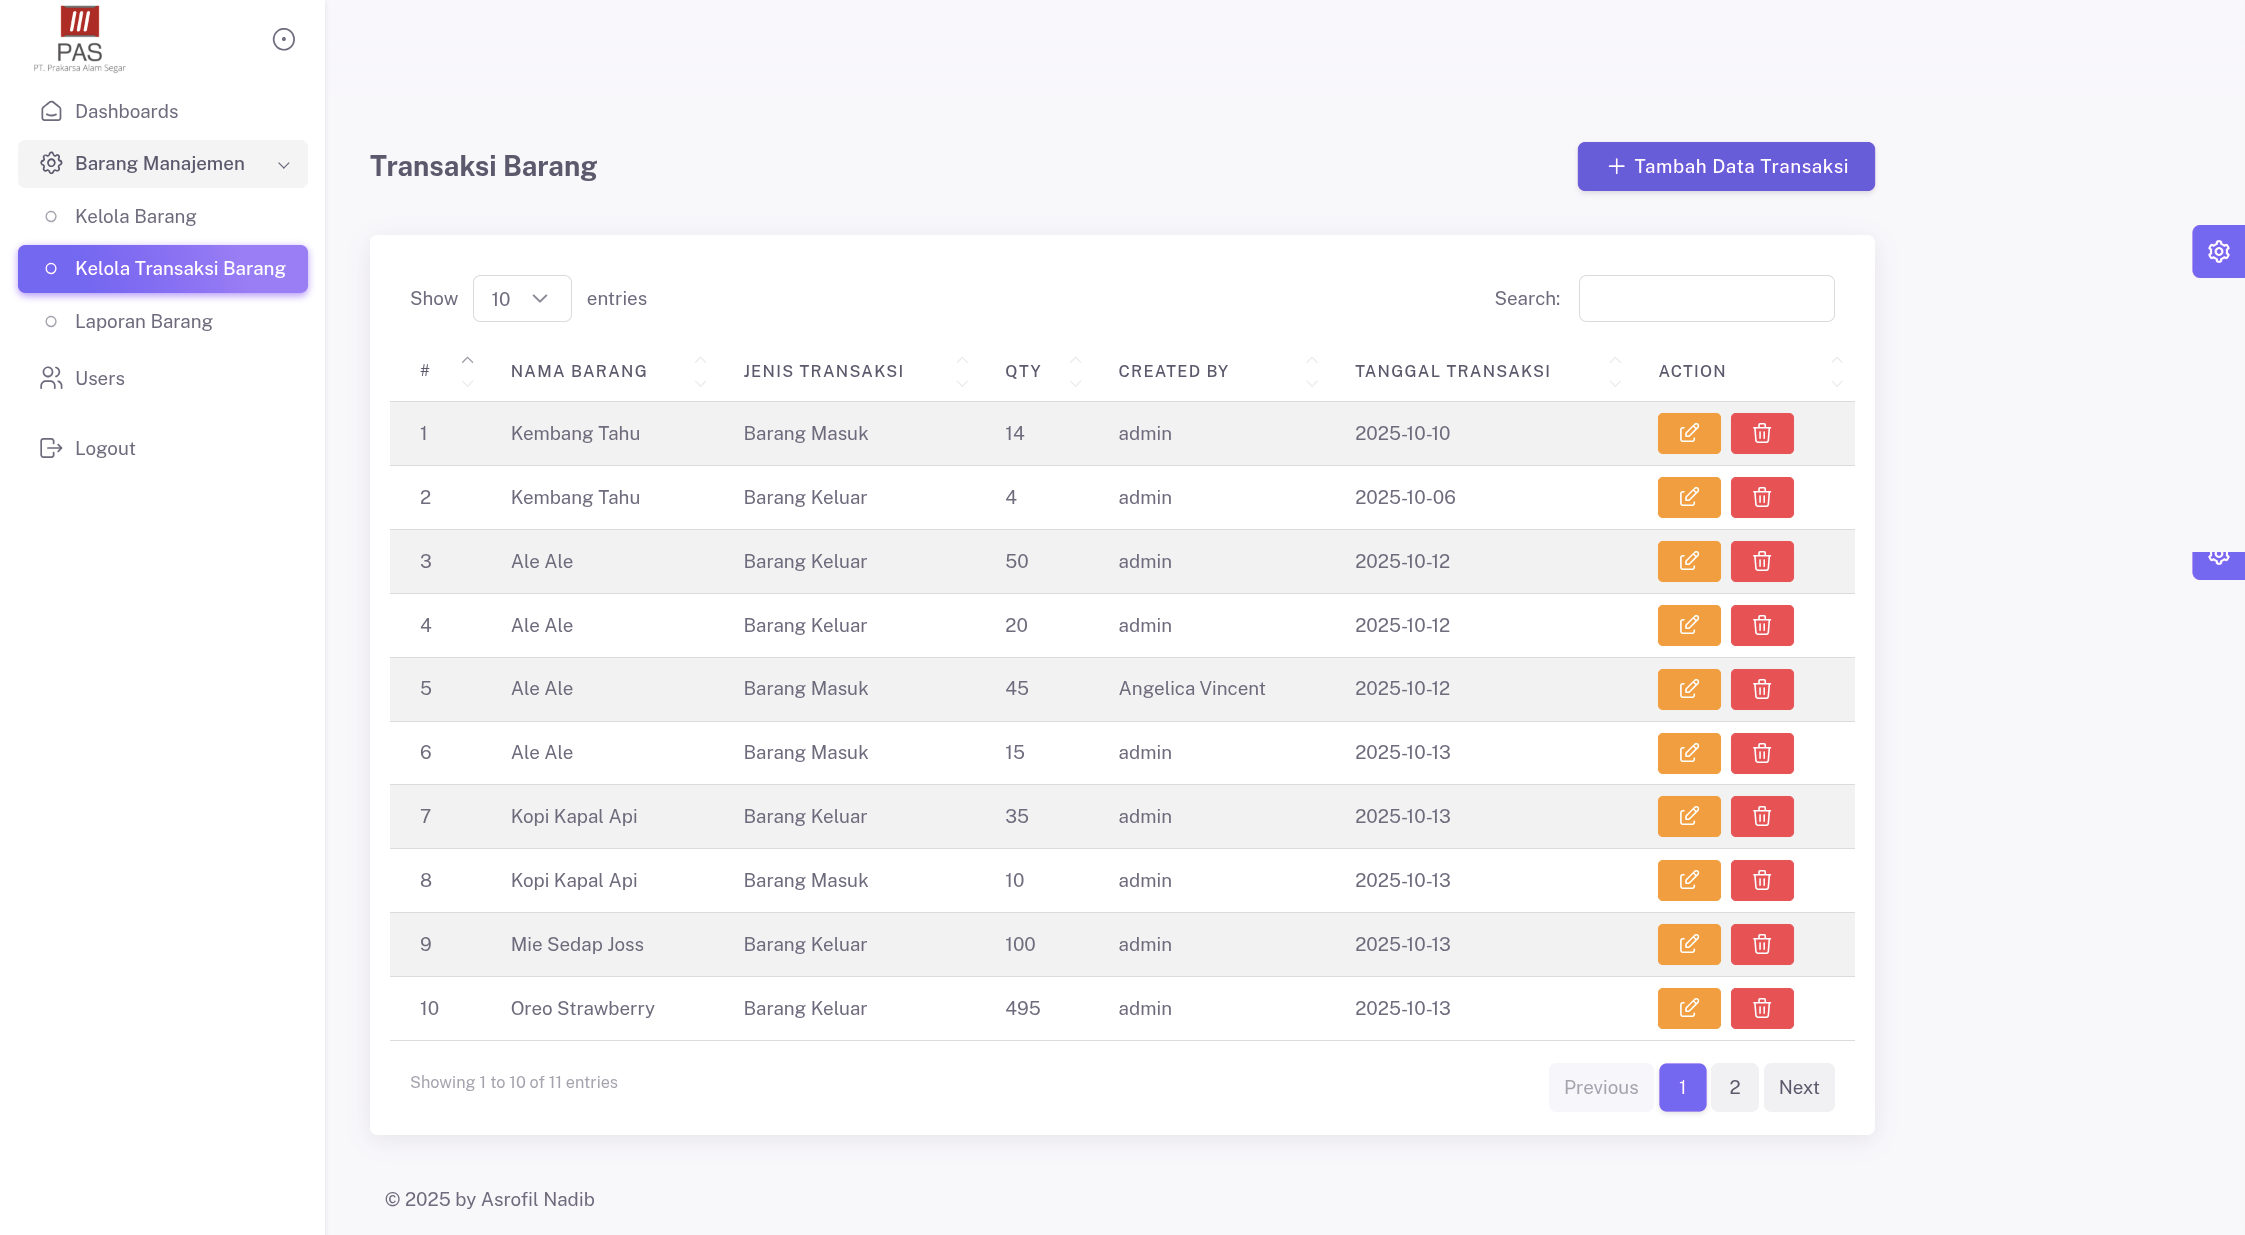
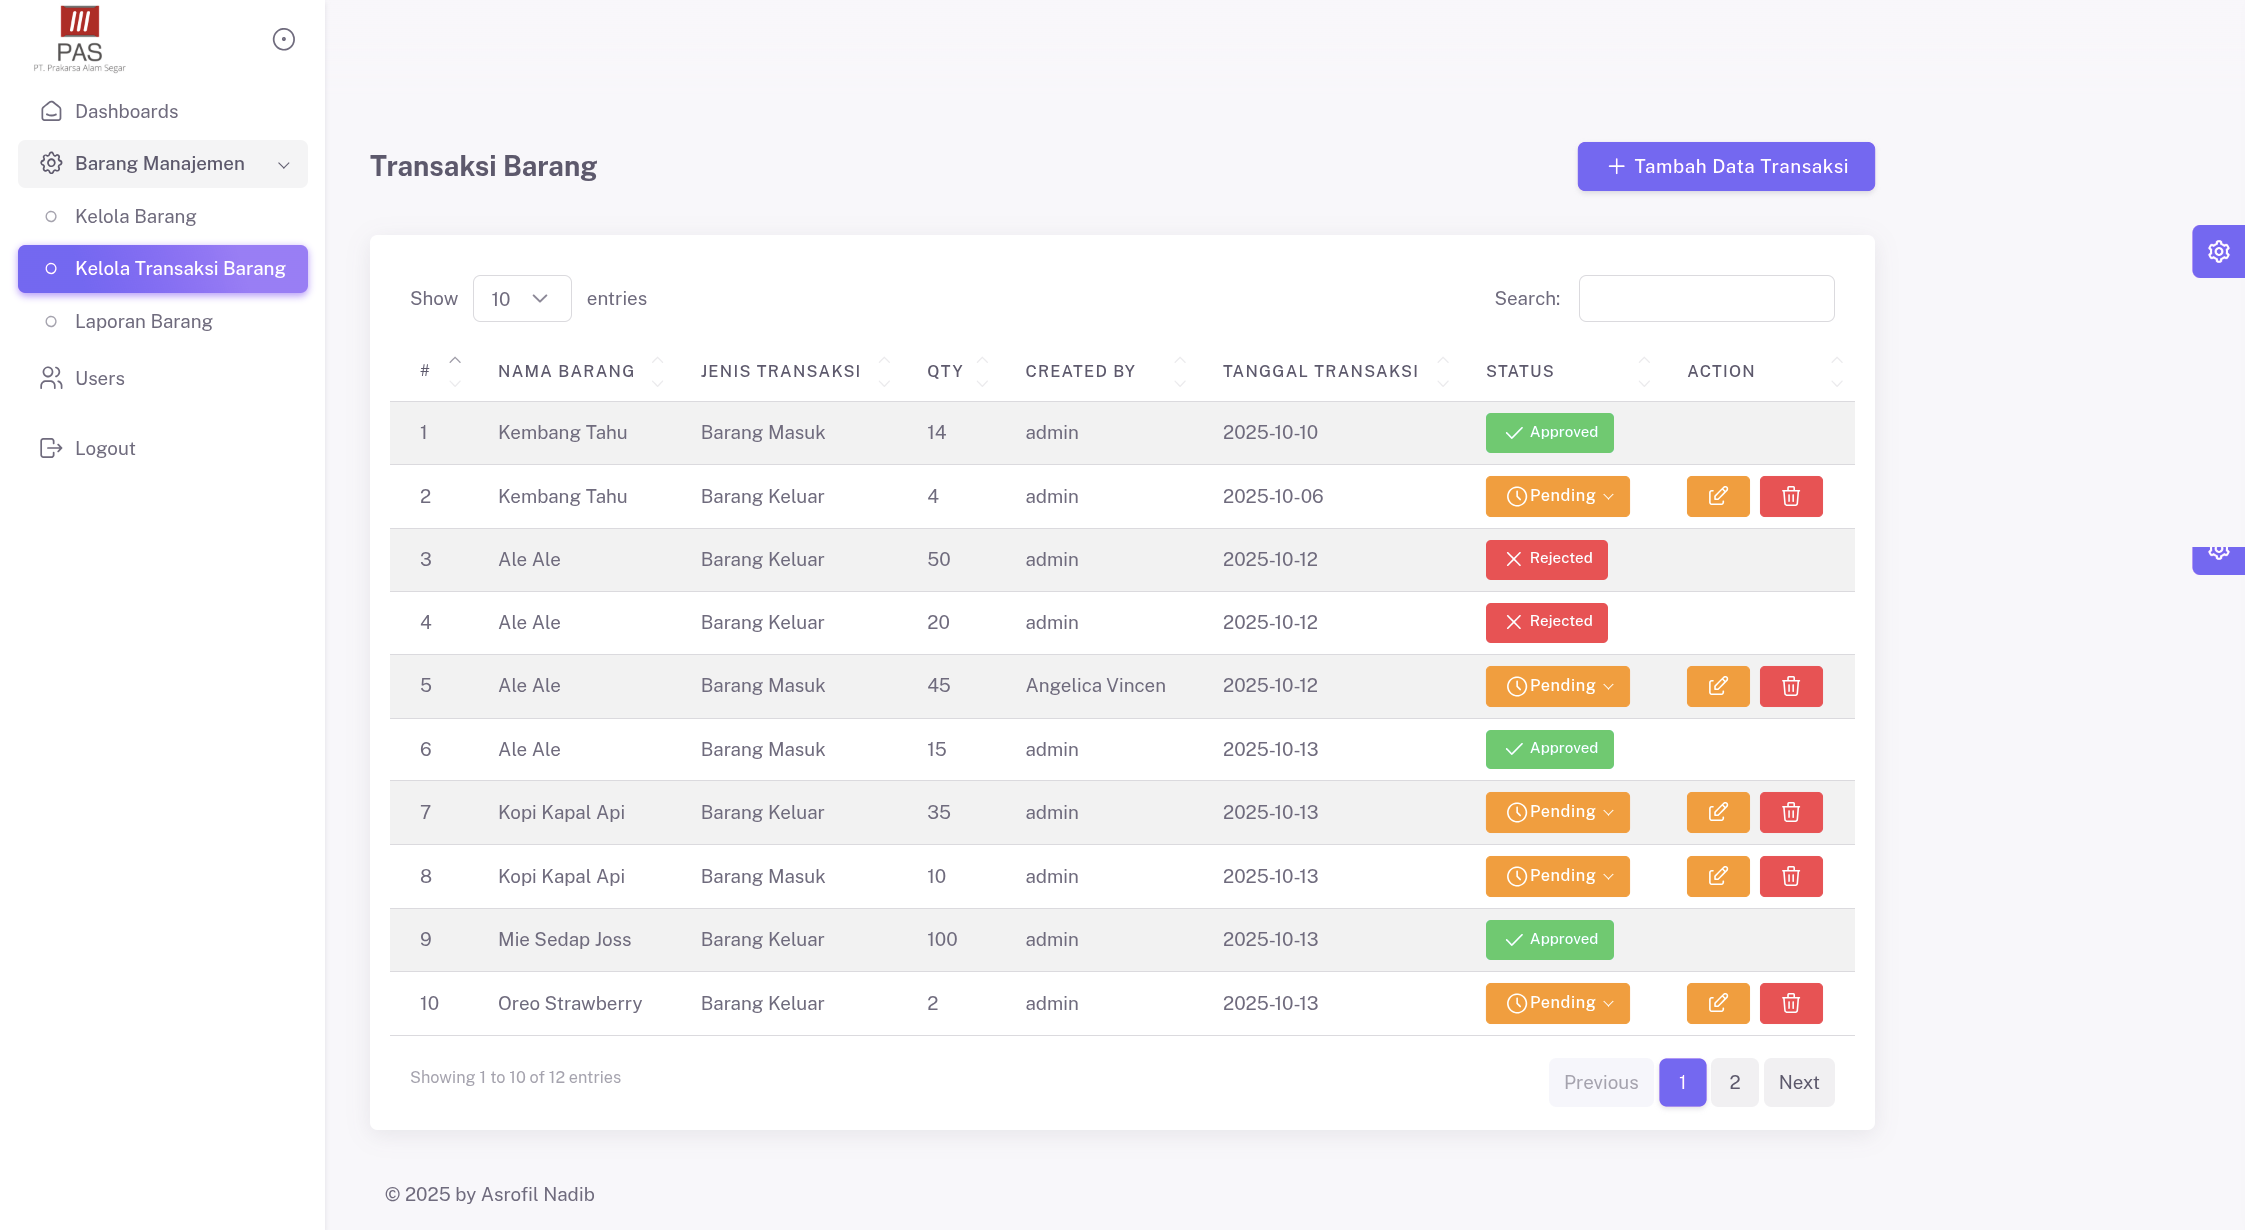
chore: last commit

diff --git a/public/js/app.js b/public/js/app.js
@@ -19437,8 +19437,8 @@ window.axios.defaults.headers.common['X-Requested-With'] = 'XMLHttpRequest';
 /*! no static exports found */
 /***/ (function(module, exports, __webpack_require__) {
 
-__webpack_require__(/*! /mnt/windows-d/Proyek/Laravel/warehouse_pas/resources/js/app.js */"./resources/js/app.js");
-module.exports = __webpack_require__(/*! /mnt/windows-d/Proyek/Laravel/warehouse_pas/resources/sass/app.scss */"./resources/sass/app.scss");
+__webpack_require__(/*! /mnt/windows-d/Proyek/Laravel/warehouse-pas/resources/js/app.js */"./resources/js/app.js");
+module.exports = __webpack_require__(/*! /mnt/windows-d/Proyek/Laravel/warehouse-pas/resources/sass/app.scss */"./resources/sass/app.scss");
 
 
 /***/ })
